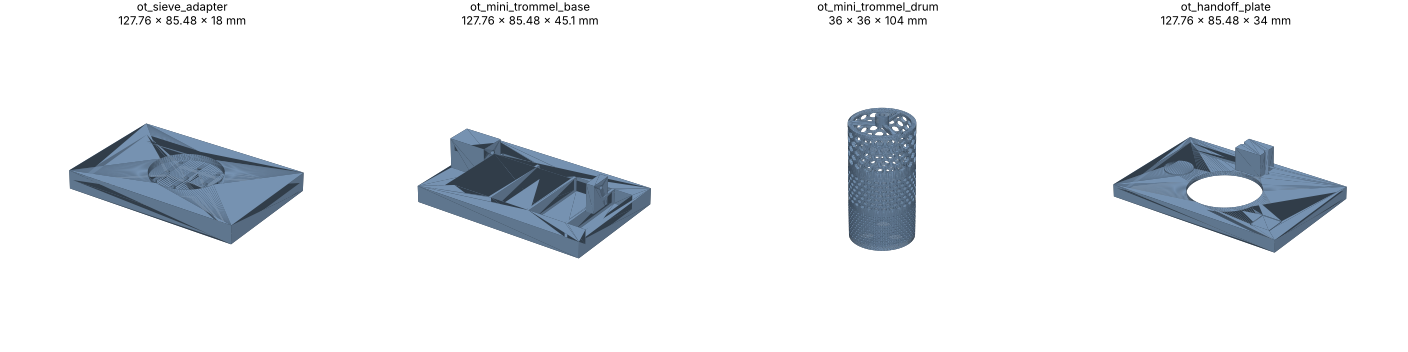
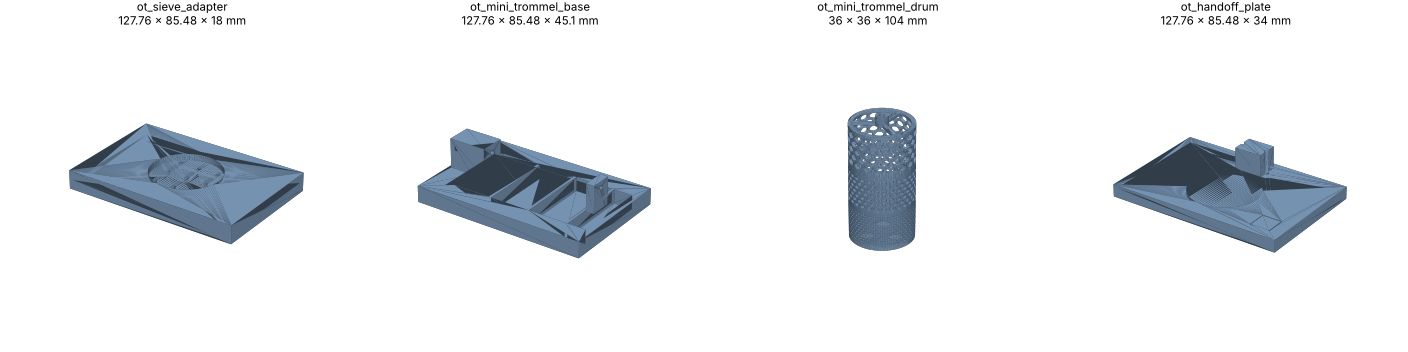
hand-off carrier: ring socket is a 3 mm recess with a 1 mm floor (was cutting through the top plate); floor test
Claude-Session: https://claude.ai/code/session_01QFxoLnhYqVRx9vt1gMAWaZ

Changed region(s): [[0.7812, 0.4062, 0.9688, 0.6562]]

diff --git a/baebugs/opentrons_parts.py b/baebugs/opentrons_parts.py
@@ -91,7 +91,7 @@ def handoff_plate():
     vee = [Manifold.cube([3, 3, 30], True).rotate([0, 0, 45]).translate([x / 2 + sx * g / 2, y - 14, h + 11]) for sx in (-1, 1)]
     pad = cyl(1.2, O["pad_d"] / 2, seg=48).translate([22, y / 2, h])
     tag = box(O["tag"] + 0.4, O["tag"] + 0.4, 0.8).translate([x - 24, 8, h - 0.79])
-    socket = cyl(4.2, PP["mini_od"] / 2 + PP["fit"], seg=96).translate([x / 2, y / 2 - 6, h - 4])
+    socket = cyl(3.2, PP["mini_od"] / 2 + PP["fit"], seg=96).translate([x / 2, y / 2 - 6, h - 3])   # 3 mm recess, 1 mm floor
     return union([base, handle, pad]) - union(vee + [tag, socket])
 
 
@@ -136,8 +136,8 @@ def labware_defs():
                        O["axis_z"] + O["drum_od"] / 2 + 2, tw, grip_h=O["grip_h"])
     hz = O["skirt_h"] + O["plate_t"]
     handoff = _labware("baebugs_handoff_plate", "baebugs hand-off carrier (arm / suction / gripper)", hz + 22,
-                       {"A1": {"depth": 4, "totalLiquidVolume": 7000, "shape": "circular", "diameter": PP["mini_od"],
-                               "x": x / 2, "y": y / 2 - 6, "z": hz - 4}}, grip_h=O["grip_h"] / 2 + 2)
+                       {"A1": {"depth": 3, "totalLiquidVolume": 5000, "shape": "circular", "diameter": PP["mini_od"],
+                               "x": x / 2, "y": y / 2 - 6, "z": hz - 3}}, grip_h=O["grip_h"] / 2 + 2)
     return {d["parameters"]["loadName"]: d for d in (sieve, trommel, handoff)}
 
 

diff --git a/tests/test_opentrons_parts.py b/tests/test_opentrons_parts.py
@@ -13,6 +13,10 @@ def test_deck_parts_fit_the_slot_and_are_watertight():
         if name != "ot_mini_trommel_drum":
             assert abs(dx - SBS[0]) < 0.01 and abs(dy - SBS[1]) < 0.01, name
     assert O["axis_z"] - O["drum_od"] / 2 > O["well_depth"] + 2          # drum clears the bins
+    from manifold3d import Manifold
+    hz = O["skirt_h"] + O["plate_t"]
+    probe = Manifold.cube([2, 2, 0.5]).translate([SBS[0] / 2 - 1, SBS[1] / 2 - 7, hz - 3.6])
+    assert (parts()["ot_handoff_plate"] ^ probe).volume() > 1.9          # socket has a floor (not a through-hole)
 
 
 def test_labware_definitions_declare_flat_adapter_stacking():
